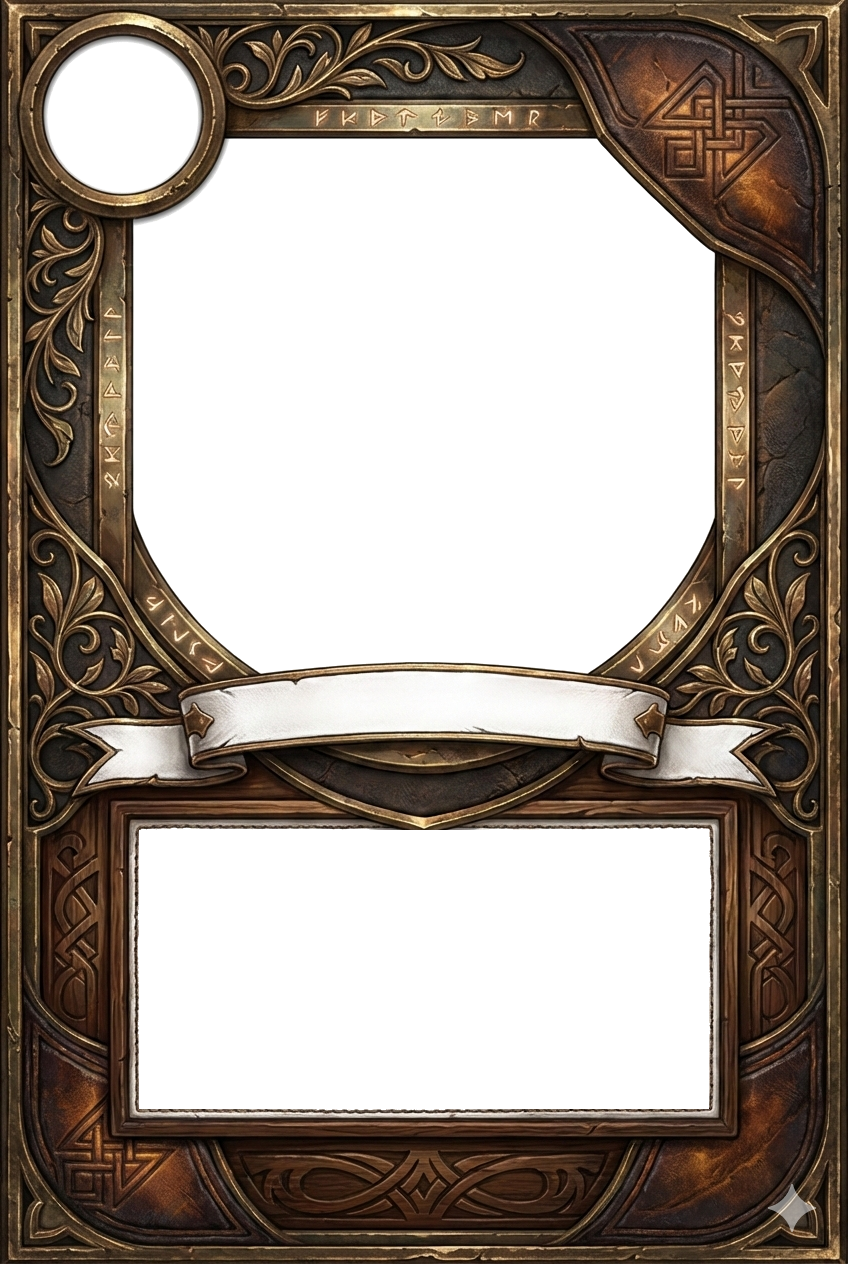
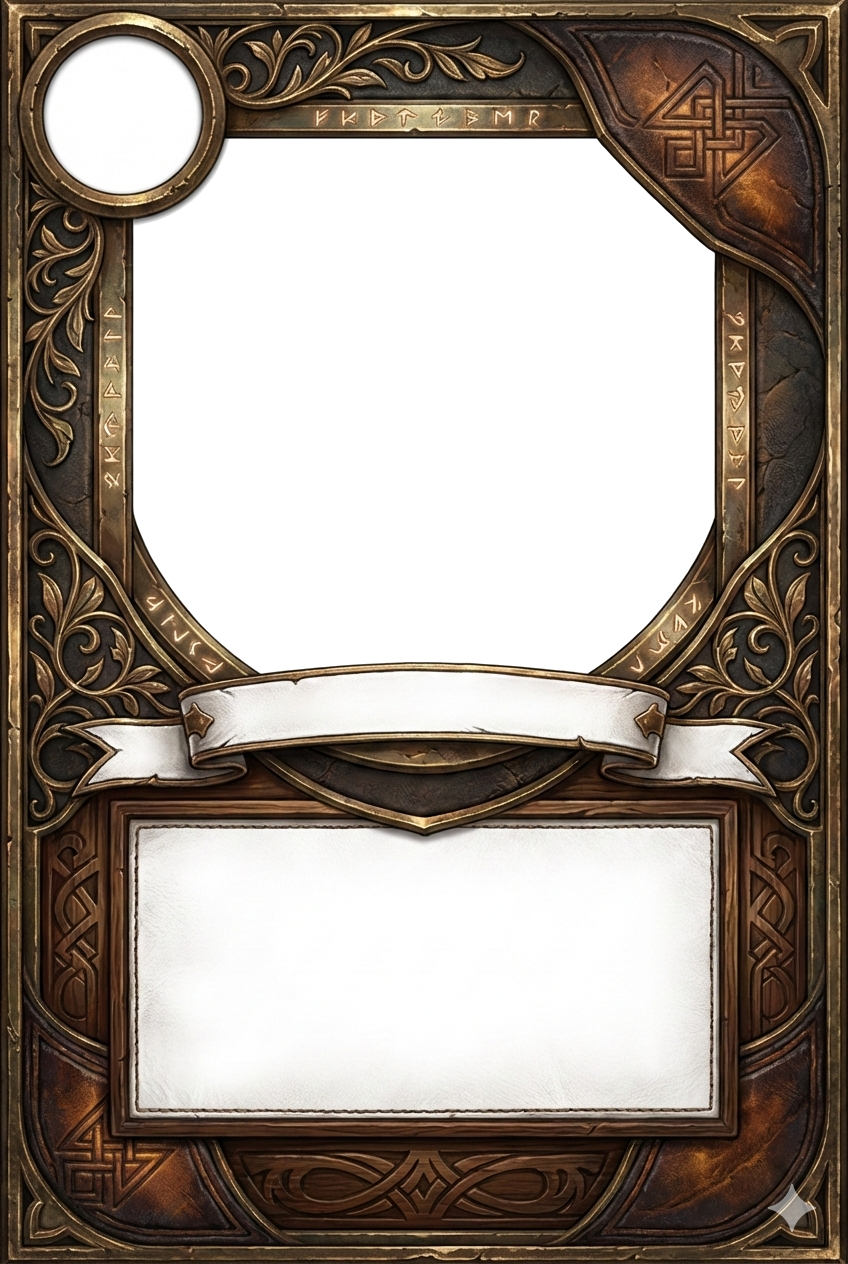
イラスト部分だけを透過に変更

Changed region(s): [[0.1533, 0.6479, 0.8585, 0.8948], [0.4599, 0.6479, 0.5519, 0.6788], [0.6132, 0.6479, 0.6439, 0.6788]]

diff --git a/index.html b/index.html
@@ -5,70 +5,76 @@
 <meta name="viewport" content="width=device-width, initial-scale=1.0, maximum-scale=1.0, user-scalable=no">
 <title>俺のローグライク</title>
 <style>
-  /* 全体の設定：背景を暗くして雰囲気を出す */
+  /* 全体の設定 */
   body {
-    margin: 0; padding: 20px; background-color: #1a1a1a; color: white;
-    display: flex; flex-wrap: wrap; justify-content: center; gap: 20px; /* カードを中央揃えで並べる */
-    font-family: 'Georgia', serif; /* ファンタジーっぽいフォント */
+    margin: 0; padding: 20px; background-color: #111; color: white;
+    display: flex; flex-wrap: wrap; justify-content: center; gap: 20px;
+    font-family: 'Georgia', serif;
   }
 
-  /* --- カードの基本構造（レイヤーシステム） --- */
-  
-  /* 0. カード全体のコンテナ（サイズ定義） */
+  /* --- カードコンテナ --- */
   .card {
-    position: relative; /* 子要素の基準点になる */
-    width: 240px;  /* スマホで見やすいサイズ感 */
-    height: 360px; /* 2:3の比率 */
-    /* 開発用：カードの領域がわかるように仮の背景色 */
-    background-color: #2a2a2a; 
-    border-radius: 15px; /* フレームに合わせて角を少し丸める */
-    overflow: hidden; /* はみ出した部分を隠す */
-    box-shadow: 0 10px 20px rgba(0,0,0,0.5); /* カッコいい影 */
+    position: relative;
+    width: 240px;
+    height: 360px;
+    background-color: #000; /* 万が一の隙間用 */
+    border-radius: 15px; /* 枠の形状に合わせて調整 */
+    box-shadow: 0 10px 20px rgba(0,0,0,0.5);
+    /* 重要：スマホで長押し選択されないようにする */
+    user-select: none; -webkit-user-select: none;
   }
 
-  /* 1. 最下層：イラスト (z-index: 1) */
+  /* --- レイヤー1：イラスト（一番下） --- */
   .card-art {
     position: absolute;
-    top: 0; left: 0; width: 100%; height: 100%;
-    object-fit: cover; /* 枠の窓全体を埋め尽くすように拡大縮小 */
-    z-index: 1;
+    /* イラストを「少し上寄り」に配置して、窓から確実に見えるようにする */
+    top: 5%; 
+    left: 5%;
+    width: 90%; 
+    height: 60%; /* カードの上半分くらいをカバーできればOK */
+    object-fit: cover;
+    z-index: 1; /* フレームの下 */
   }
 
-  /* 2. 中間層：フレーム画像 (z-index: 10) */
+  /* --- レイヤー2：枠画像（真ん中） --- */
+  /* ここが「蓋」の役割をします。イラスト以外の部分は不透明な画像を使います */
   .card-frame-img {
     position: absolute;
     top: 0; left: 0; width: 100%; height: 100%;
-    object-fit: fill; /* コンテナサイズに合わせて強制的に引き伸ばす */
-    z-index: 10;
-    pointer-events: none; /* クリックを貫通させる */
+    object-fit: fill;
+    z-index: 2; /* イラストの上 */
+    pointer-events: none;
   }
 
-  /* 3. 最上層：テキストUI (z-index: 20) */
-  /* ※位置(top, leftなど)は使用するフレーム画像に合わせて微調整が必要です */
-  .card-ui { position: absolute; top: 0; left: 0; width: 100%; height: 100%; z-index: 20; }
+  /* --- レイヤー3：UIテキスト（一番上） --- */
+  .card-ui { position: absolute; top: 0; left: 0; width: 100%; height: 100%; z-index: 3; }
 
-  /* 左上のコスト表示 */
+  /* コスト：丸枠の真ん中に来るように微調整 */
   .card-cost {
     position: absolute;
-    top: 15px; left: 18px; width: 55px; height: 55px;
+    top: 0px; left: 0px; /* 枠画像の丸の位置に合わせて調整 */
+    width: 85px; height: 85px; /* 丸枠より少し大きめに判定を取ってセンター合わせ */
     display: flex; justify-content: center; align-items: center;
-    font-size: 32px; font-weight: bold; color: #FFD700; /* 金色 */
-    text-shadow: 2px 2px 4px #000; /* 文字を見やすくする影 */
+    font-size: 38px; font-weight: bold; color: #FFD700;
+    text-shadow: 3px 3px 0 #000; /* 視認性アップ */
   }
   
-  /* 中央のリボンタイトル */
+  /* タイトル：リボンの中央 */
   .card-title {
     position: absolute;
-    top: 215px; left: 30px; width: 180px;
-    text-align: center; font-size: 18px; font-weight: bold; color: #3d2e1e; /* 羊皮紙っぽい濃い茶色 */
+    top: 58%; /* 上から58%の位置（リボンの位置に合わせて調整） */
+    left: 10%; width: 80%; /* 左右に少し余白を持たせる */
+    text-align: center; font-size: 16px; font-weight: bold; color: #3d2e1e;
+    white-space: nowrap; overflow: hidden; text-overflow: ellipsis; 
   }
 
-  /* 下部の説明文ボックス */
+  /* 説明文：下部のテキストエリア */
   .card-desc {
     position: absolute;
-    bottom: 30px; left: 30px; width: 180px; height: 70px;
+    bottom: 8%; /* 下から8%の位置 */
+    left: 10%; width: 80%; height: 20%;
     display: flex; justify-content: center; align-items: center; text-align: center;
-    font-size: 14px; color: #3d2e1e; line-height: 1.4;
+    font-size: 13px; color: #3d2e1e; line-height: 1.4; font-weight: bold;
   }
 
 </style>
@@ -81,7 +87,7 @@
     <div class="card-ui">
       <div class="card-cost">1</div>
       <div class="card-title">ストライク</div>
-      <div class="card-desc">敵1体に<br>6ダメージを与える。</div>
+      <div class="card-desc">敵1体に<br>6ダメージを与える</div>
     </div>
   </div>
 
@@ -91,7 +97,7 @@
     <div class="card-ui">
       <div class="card-cost">1</div>
       <div class="card-title">防御</div>
-      <div class="card-desc">ブロックを<br>5得る。</div>
+      <div class="card-desc">ブロックを<br>5得る</div>
     </div>
   </div>
 
@@ -101,7 +107,7 @@
     <div class="card-ui">
       <div class="card-cost">0</div>
       <div class="card-title">ポーション</div>
-      <div class="card-desc">HPを<br>10回復する。</div>
+      <div class="card-desc">HPを<br>10回復する</div>
     </div>
   </div>
 
